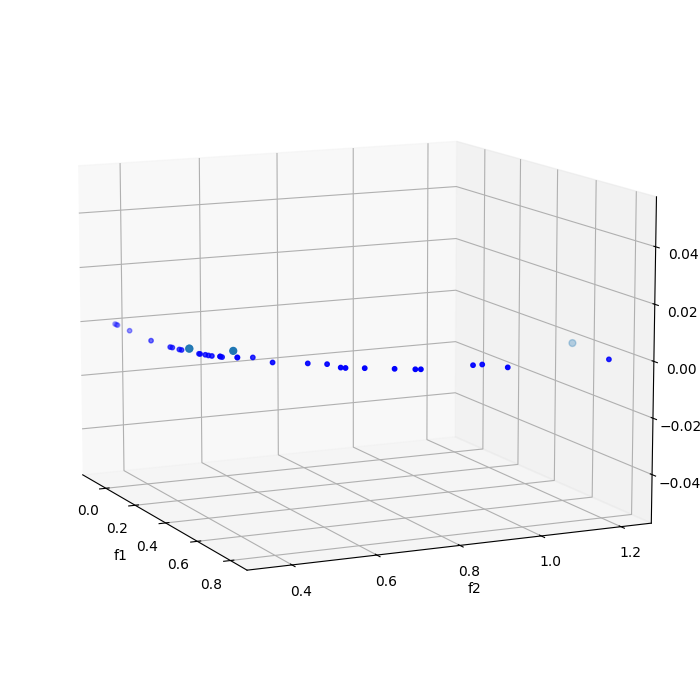
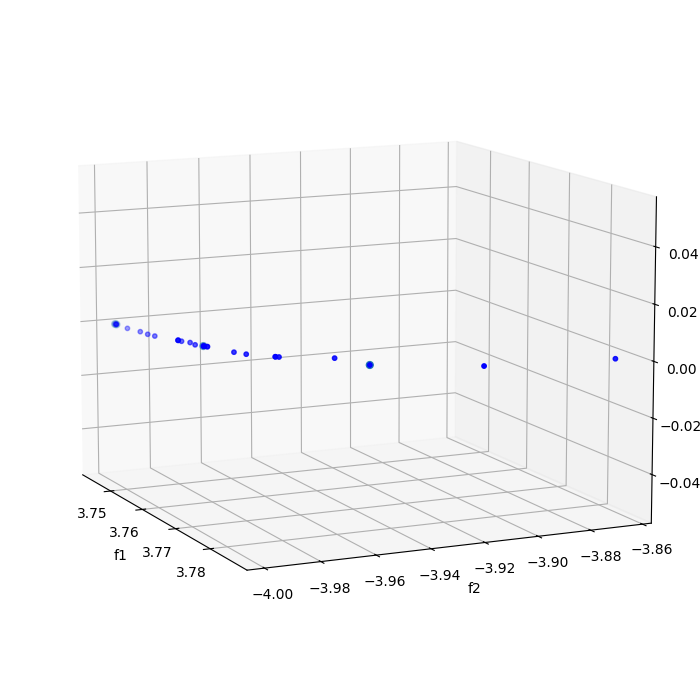
lab11 rui

diff --git a/Lab11-Rui/nsga3.py b/Lab11-Rui/nsga3.py
@@ -17,7 +17,7 @@ NOBJ = 1
 NDIM = 2
 P = 12
 H = factorial(NOBJ + P - 1) / (factorial(P) * factorial(NOBJ - 1))
-BOUND_LOW, BOUND_UP = 0.0, 4.0
+BOUND_LOW, BOUND_UP = -1.0, 1.0
 problem = pymop.factory.get_problem(PROBLEM, n_var=NDIM, n_obj=NOBJ)
 ##
 
